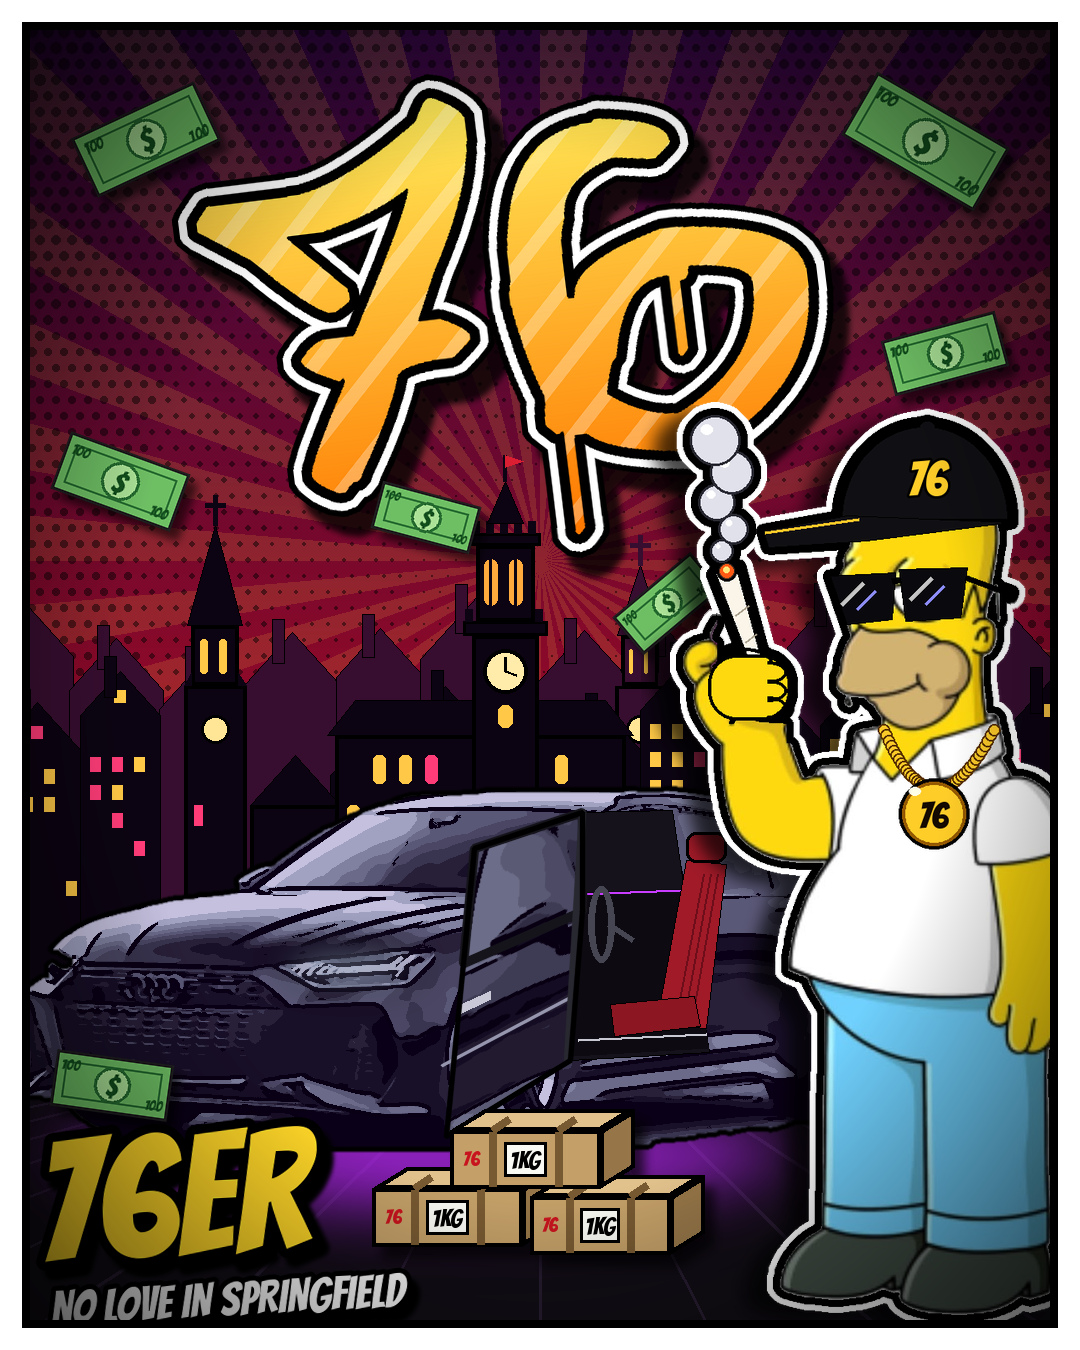
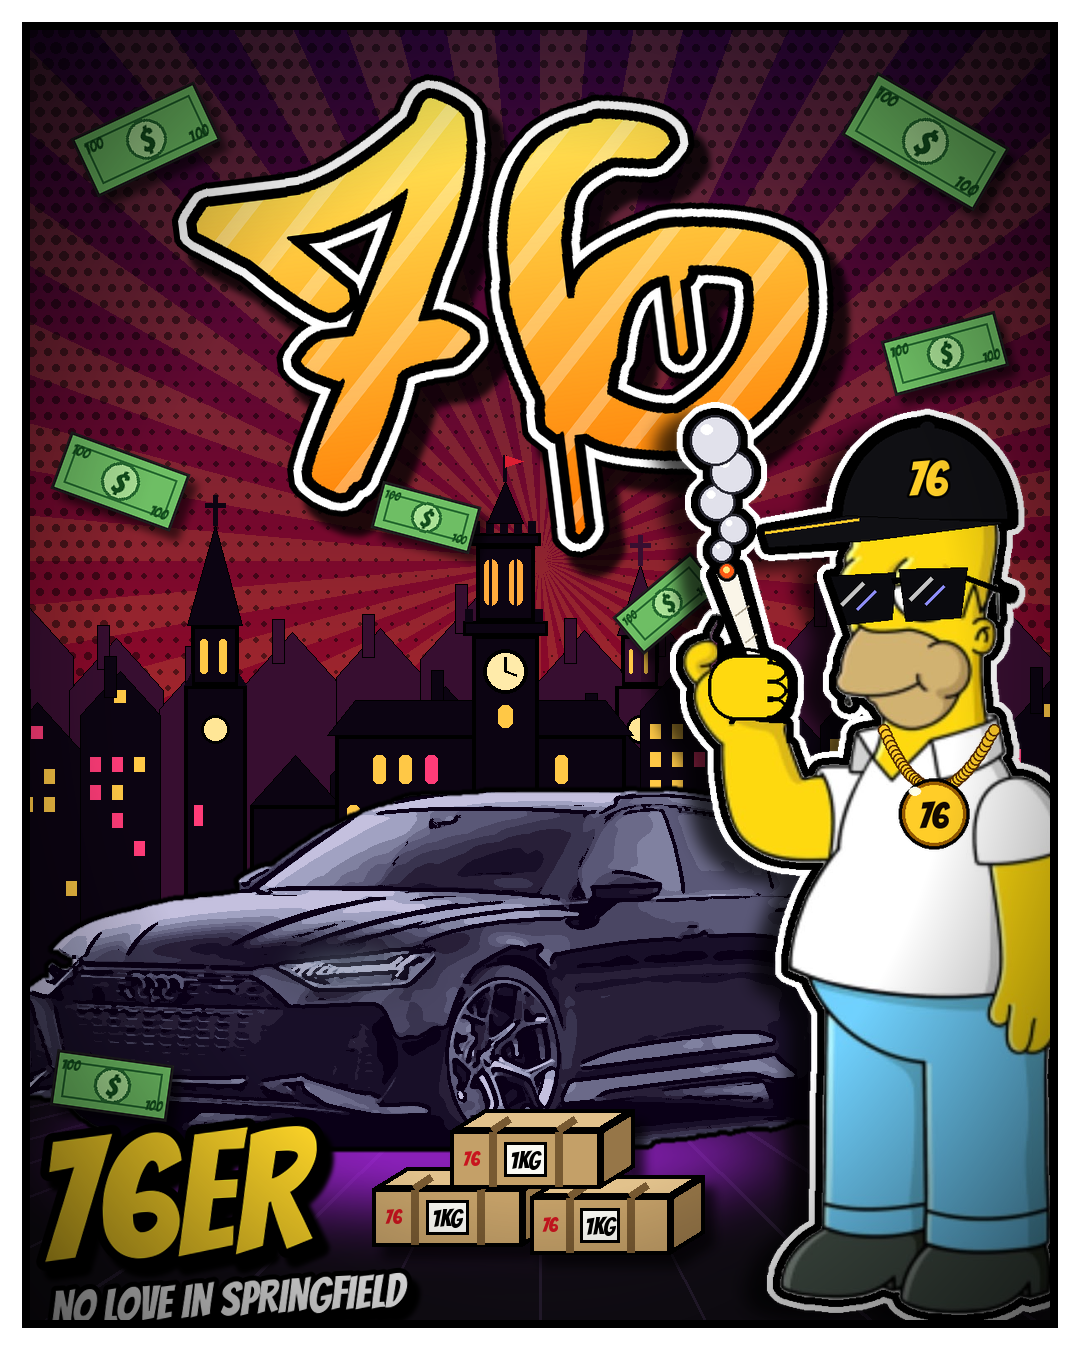
76er poster: keep driver door closed, keep packages
Claude-Session: https://claude.ai/code/session_01DjGXjfbxLiENZnwK52kBDS

Changed region(s): [[0.3972, 0.5911, 0.6722, 0.84]]

diff --git a/gang-bild/compose.py b/gang-bild/compose.py
@@ -87,8 +87,7 @@ q=cv2.bitwise_and(q,q,mask=edges)
 # subtle purple rim tint
 q=cv2.cvtColor(q,cv2.COLOR_BGR2RGB).astype(np.float32); q=np.clip(q*0.95+np.array([10,0,22]),0,255).astype(np.uint8)
 alpha=np.array(car)[:,:,3]
-exec(open('door.py').read())
-car=Image.fromarray(open_door(np.ascontiguousarray(np.dstack([q,alpha]))),'RGBA')
+car=Image.fromarray(np.dstack([q,alpha]),'RGBA')
 car=outline(pad(car,12),5,(0,0,0,255))
 cpos=(10,1160-car.height); bg.alpha_composite(car,cpos)
 # headlight flare
